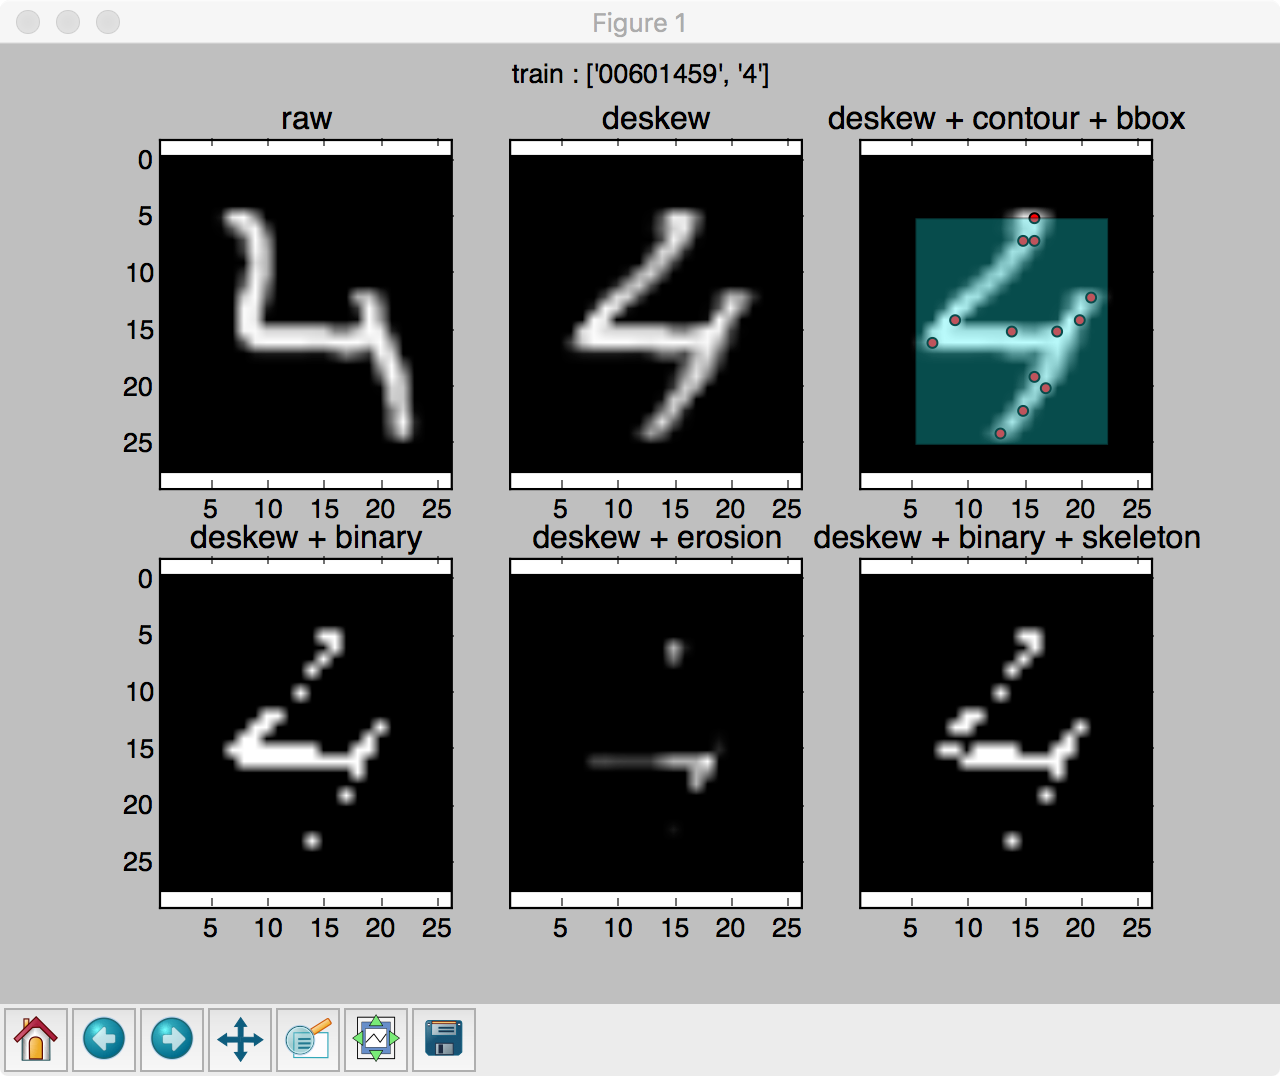
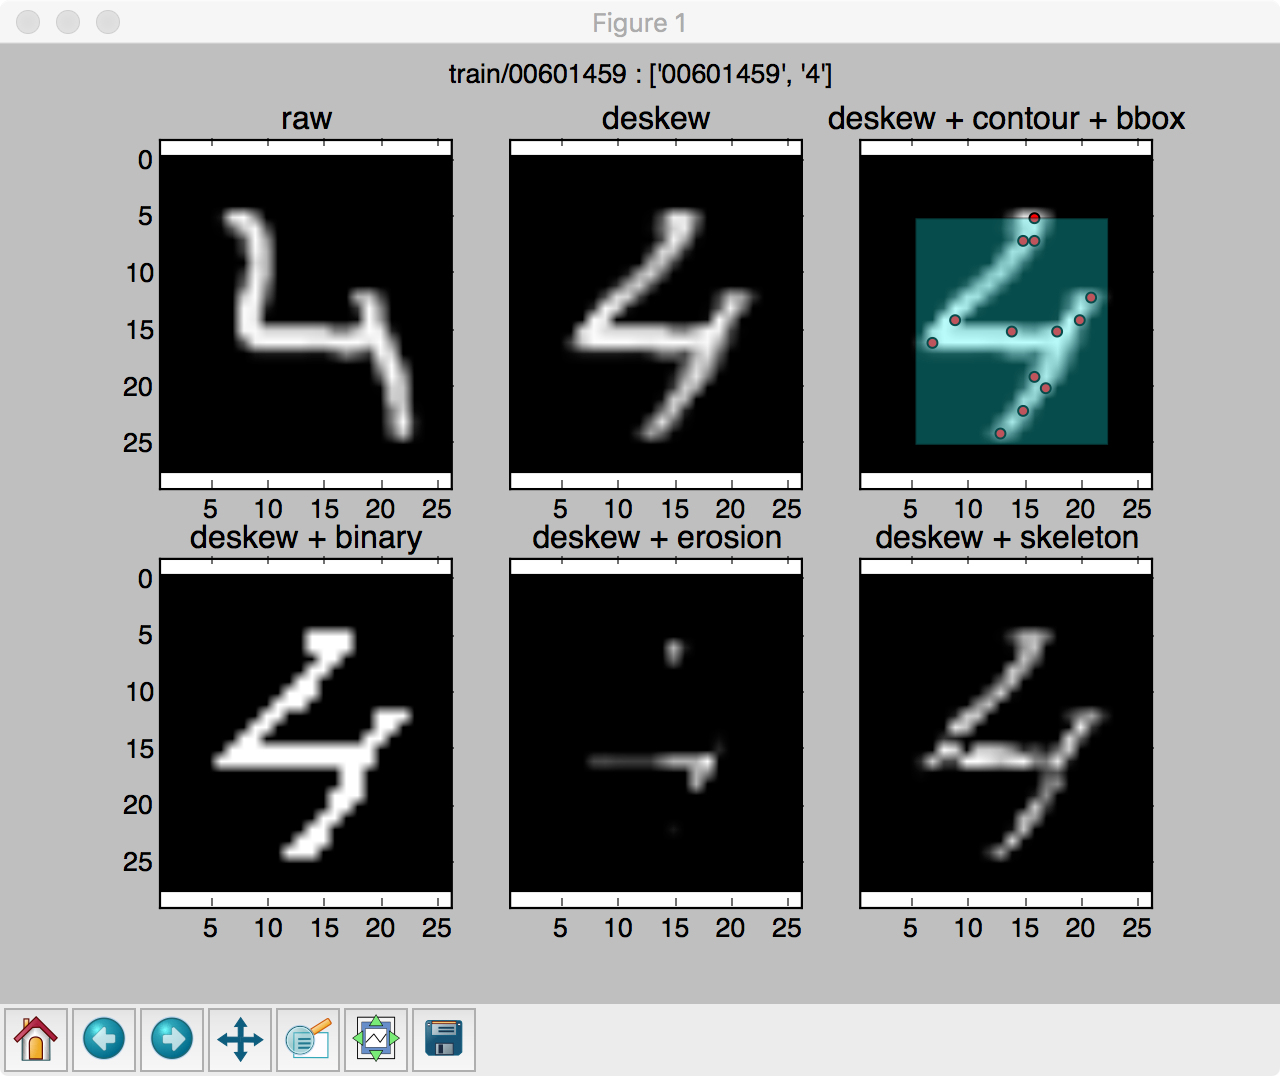
refine format

diff --git a/conclusion.md b/conclusion.md
@@ -1,37 +1,11 @@
 # Conclusion
 
-<table>
-    <tr>
-        <td>name</td>
-        <td>scope</td>
-    </tr>
-    <tr>
-    	<td>RandomForest</td>
-    	<td>-0.40656</td>
-    </tr>
-    <tr>
-    	<td>Softmax Regressions</td>
-    	<td>-0.373177</td>
-    </tr>
-    <tr>
-    	<td>Convolutional Network</td>
-    	<td>-0.08475</td>
-    </tr>
-    <tr>
-    	<td>LeNet-5-like CNN</td>
-    	<td>-0.069444</td>
-    </tr>
-    <tr>
-    	<td>LeNet-5-like CNN with deskew</td>
-    	<td>-0.05897</td>
-    </tr>
-    <tr>
-    	<td>LeNet-5-like CNN with deskew training data and non-deskew training data </td>
-    	<td>-0.076876</td>
-    </tr>
-    <tr>
-    	<td>LeNet-5-like CNN with skeleton</td>
-    	<td>-0.085661</td>
-    </tr>
-    
-</table>
+Best Score | Submit Main Feature | Logloss Score @ Public Leaderboard
+------------- | -------------
+| Random Forest | -0.40656
+| Softmax Regressions | -0.373177
+| Convolutional Network | -0.08475
+| LeNet-5-like CNN | -0.069444
+:checkered_flag: | LeNet-5-like CNN with deskew | -0.05897
+| LeNet-5-like CNN with deskew training data and non-deskew training data | -0.076876
+| LeNet-5-like CNN with skeleton | -0.085661

diff --git a/features.md b/features.md
@@ -2,15 +2,16 @@
 (Including the description and generating method of each feature)
 
 ![train/00601459](./gitbook/images/00601459.png)
+*Preview of features (best training result = deskew)*
 
 ## Raw Data
 Read data byte-by-byte then save as csv file
 
-## Deskew
-Deskew raw data to make pixels left-right-balance
+## Deskew (used in final training)
+Remove skew from raw data to make pixels left-right-balance [using its second order moments](http://docs.opencv.org/3.1.0/dd/d3b/tutorial_py_svm_opencv.html#gsc.tab=0)
 
 ## Binary
-Make deskew data binary 0 or 255
+Make deskew data binary to 0 or 255
 
 ## Erosion
 Erode deskew data, keep white pixel only when surrounding ones are also white
@@ -18,8 +19,12 @@ Erode deskew data, keep white pixel only when surrounding ones are also white
 ## Skeleton
 Erode deskew data intil it is 1-pixel thick
 
-## Contour (not used in training)
+## Contour
+Calculate contour points around boundary
 
-## Bounding Box (not used in training)
-
-## X Y Sum (not used in training)
+## Bounding Box
+Calculate bounding box with
+* box center point
+* box width
+* box height
+* box width/height ratio

diff --git a/models.md b/models.md
@@ -1,17 +1,17 @@
 # Models
 (Including algorithm name, parameter setting of each model)
-## use simple convolutional models (LeNet-5-like convolutional)
+
+## Simple Convolutional Models (LeNet-5-like convolutional)
 
 - input   	1@ 28x28
-- filter  	32@ 5x5 
-- 1. conv   	32@ 24x24
-- 2. pooling  32@ 12x12
+- filter  	32@ 5x5
+  - :one: conv   	32@ 24x24
+  - :two: pooling  32@ 12x12
 - filter  	64@ 5x5
-- 3. conv   	64@ 8x8
-- 4. pooling  64@ 4x4
-- 5. fc1 		64  -> 512 
+  - :three: conv   	64@ 8x8
+  - :four: pooling  64@ 4x4
+  - :five: fc1 		64  -> 512
 - add a 50% dropout (during training only.) Dropout also scales
-- 6  fc2 		512 -> 10 
+  - :six: fc2 		512 -> 10
 
- 
 Bias and rectified linear non-linearity

diff --git a/reference.md b/reference.md
@@ -1,5 +1,7 @@
 # Reference
 
-* THE MNIST DATABASE http://yann.lecun.com/exdb/mnist/
-* Multi-column Deep Neural Networks for Image Classification http://arxiv.org/pdf/1202.2745v1.pdf
-* http://www.cnblogs.com/bzjia-blog/p/3442788.html
+* scikit-learn `http://scikit-learn.org`
+* OpenCV `http://opencv.org/`
+* THE MNIST DATABASE `http://yann.lecun.com/exdb/mnist/``
+* Multi-column Deep Neural Networks for Image Classification `http://arxiv.org/pdf/1202.2745v1.pdf`
+* Deep Learning 學習隨記（八）CNN（Convolutional neural network）理解 `http://www.cnblogs.com/bzjia-blog/p/3442788.html`

diff --git a/README.md b/README.md
@@ -1,4 +1,10 @@
 # digit-recognition-document
+
 [![Build Status](https://www.gitbook.com/button/status/book/jbytw/digit-recognition-document)](https://www.gitbook.com/book/jbytw/digit-recognition-document)
 
-Machine Learning Contest 2016 Solution Document
+## Machine Learning Contest 2016 <br> Solution Document
+
+Team | Anima
+------------- | -------------
+Team Leader | Brian Ko @brianko
+Team Members | Chehao Hsiao @Chehao <br> Jackie Yang @jbytw <br> Chihshun Ma @chihshun-ma <br> Joe Huang @joehuang90

diff --git a/training_process.md b/training_process.md
@@ -3,9 +3,9 @@
 
 - Training computation: logits + cross-entropy loss.
 - Use simple momentum for the optimization of minimize loss.
-- softmax regression.
+- Softmax regression.
 
-
+## Details
 1. each traing batch size 50
 2. training steps = 40 * 10000 / 50
 3. evaluate error rate and learning rate with batch size 64 when every 100 training

diff --git a/abstract.md b/abstract.md
@@ -1,2 +1,4 @@
 # Abstract
 (The short description of works)
+
+In this competition, we applied several pre-process principal to raw image, then train machine learning model using LeNet-5-like convolutional.

diff --git a/SUMMARY.md b/SUMMARY.md
@@ -8,4 +8,3 @@
 * [Training Process](training_process.md)
 * [Conclusion](conclusion.md)
 * [Reference](reference.md)
-
